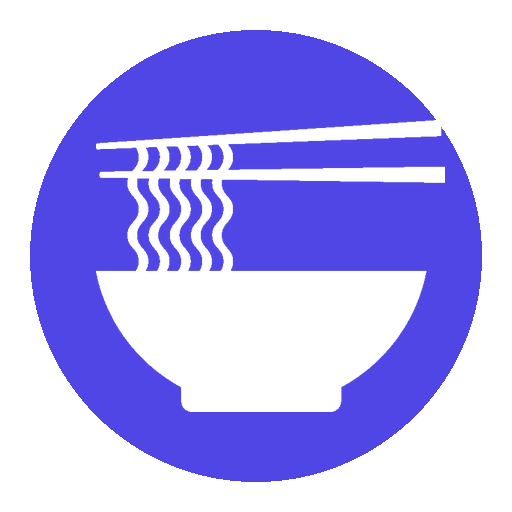
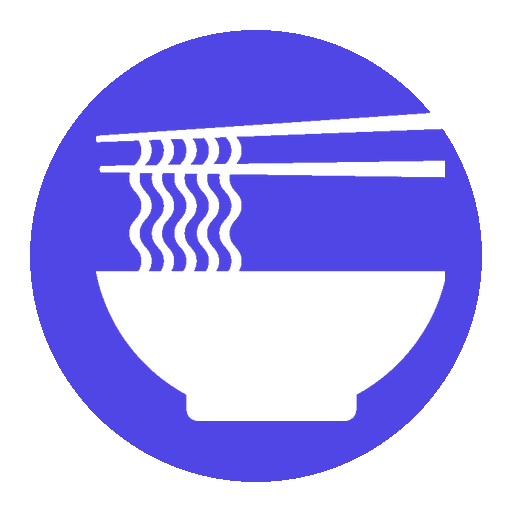
Shorten chopsticks: trim 6% from right

diff --git a/gen_icon.py b/gen_icon.py
@@ -36,6 +36,10 @@ def make_icon(source_path, size):
     if bbox:
         white_layer = white_layer.crop(bbox)
 
+    # Trim right side to shorten chopsticks
+    trim_right = int(white_layer.width * 0.06)
+    white_layer = white_layer.crop((0, 0, white_layer.width - trim_right, white_layer.height))
+
     # Scale to fit inside circle with padding
     icon_area = int(r * 1.55)
     ratio = min(icon_area / white_layer.width, icon_area / white_layer.height)
